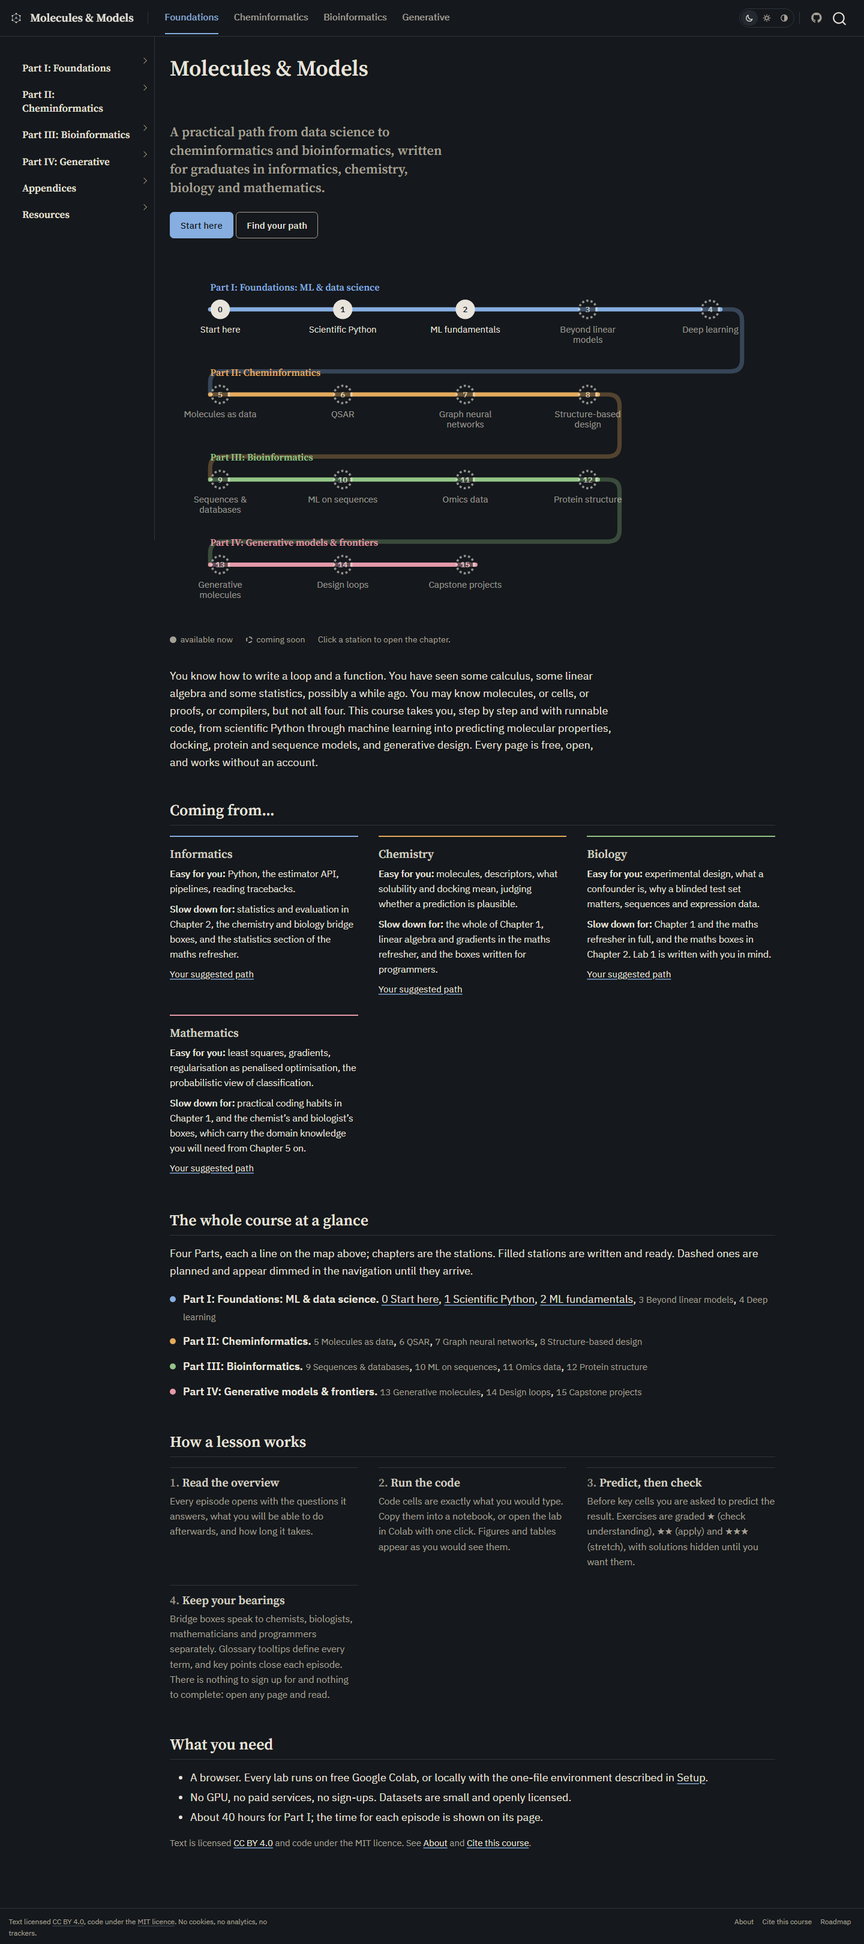
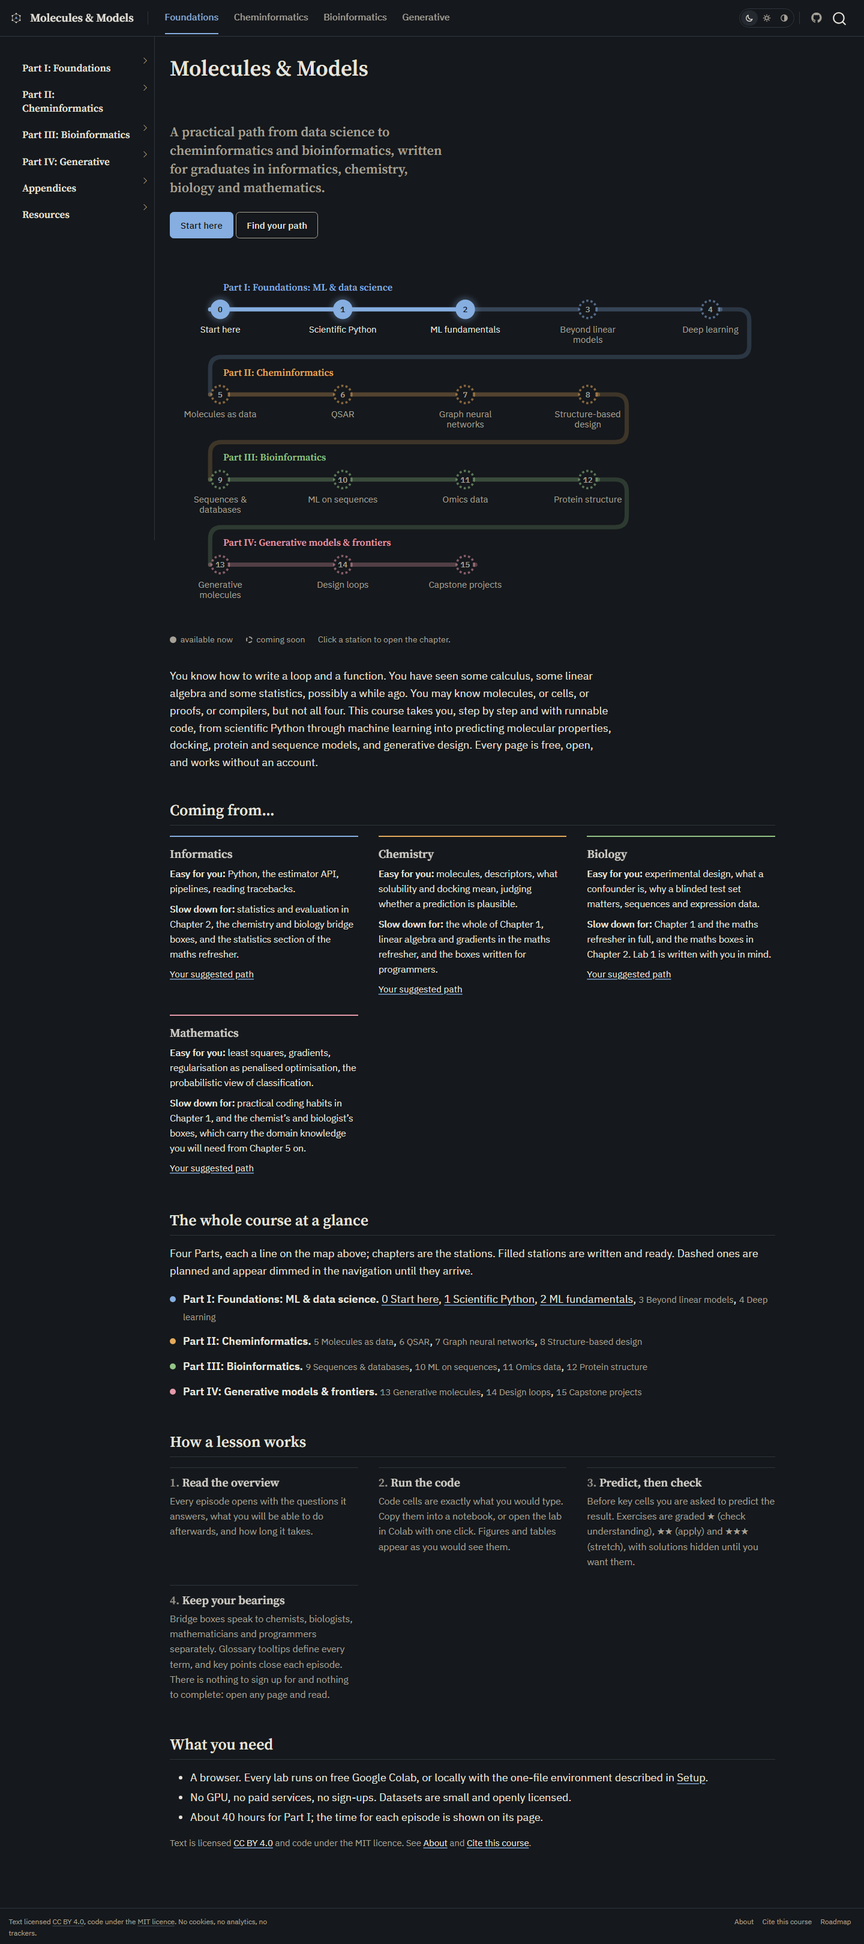
Motion: a lit roadmap and small effects that answer the reader
Roadmap (home): the written stretch of each line is lit (full colour,
soft glow) and planned stretches are unlit. On load the lines draw in
Part by Part and the stations switch on; a pulse of light then travels
along the lit stretch every six seconds. Pointing at a Part dims the
other lines; pointing at a station brightens its glow. Stations take
their line's colour; connectors no longer cross the Part labels; the
line no longer shows through planned stations' numbers; a swipe hint
appears on narrow screens.

Elsewhere: solutions, proofs and quiz answers slide open and shut;
glossary definitions fade in; chapter and audience cards light their top
rule on hover; quiz answers pulse green or amber; primary buttons get a
soft halo; navbar tabs grow an underline on hover; long pages show a thin
reading line under the header.

All CSS/SVG, no JavaScript needed, and switched off under
prefers-reduced-motion (resting styles are final states). The review
script captures with reduced motion so screenshots show finished pages.

Changed region(s): [[0.2188, 0.1248, 0.875, 0.3119]]

diff --git a/assets/scss/_mm-rules.scss b/assets/scss/_mm-rules.scss
@@ -19,7 +19,8 @@ html[data-mm-part="4"] { --mm-accent: var(--mm-accent-4); }
 
 @media (prefers-reduced-motion: reduce) {
   :root { --mm-transition: 0ms; }
-  *, *::before, *::after { transition-duration: 0ms !important; animation-duration: 0ms !important; scroll-behavior: auto !important; }
+  *, *::before, *::after { transition-duration: 0ms !important; animation: none !important; scroll-behavior: auto !important; }
+  .mm-metro-spark, .mm-metro-spark-glow { display: none !important; }
 }
 
 // ---------------------------------------------------------------------------
@@ -433,12 +434,14 @@ details.mm-callout > .mm-callout-body { padding-top: .5rem; }
 a.mm-term { color: inherit; text-decoration: none; }
 a.mm-term:hover, a.mm-term:focus-visible { text-decoration: underline; text-decoration-color: var(--mm-text-muted); text-decoration-thickness: 1px; text-underline-offset: .18em; }
 .mm-term-tip {
-  display: none; position: absolute; left: 0; top: calc(100% + .4rem); z-index: 1040; width: min(34ch, 80vw);
+  display: block; visibility: hidden; opacity: 0; transform: translateY(4px);
+  transition: opacity .16s ease, transform .16s ease, visibility 0s linear .16s;
+  position: absolute; left: 0; top: calc(100% + .4rem); z-index: 1040; width: min(34ch, 80vw);
   background: var(--mm-surface); color: var(--mm-text); border: 1px solid var(--mm-border); border-radius: var(--mm-radius); padding: .6rem .8rem;
   font-size: .84rem; line-height: 1.45; font-weight: 400; box-shadow: var(--mm-shadow); text-align: left;
 }
 .mm-term-tip strong { display: block; font-family: var(--mm-font-heading); font-size: .95rem; color: var(--mm-text); margin-bottom: .15rem; }
-a.mm-term:hover + .mm-term-tip, a.mm-term:focus-visible + .mm-term-tip, .mm-term-tip:hover { display: block; }
+a.mm-term:hover + .mm-term-tip, a.mm-term:focus-visible + .mm-term-tip, .mm-term-tip:hover { visibility: visible; opacity: 1; transform: none; transition-delay: 0s; }
 @media (hover: none) { .mm-term-tip { display: none !important; } }
 .mm-glossary dt { font-family: var(--mm-font-heading); font-size: 1.1rem; margin-top: 1.3rem; scroll-margin-top: 5rem; }
 .mm-glossary dd { max-width: var(--mm-measure); }
@@ -533,20 +536,51 @@ table.mm-schedule tr.mm-sched-lab td { background: color-mix(in srgb, var(--mm-a
 .mm-audience .mm-card p { font-size: .92rem; color: var(--mm-text); }
 .mm-audience .mm-card p strong { font-weight: 600; }
 .mm-audience .mm-card a { font-size: .9rem; margin-top: auto; }
+// ---------------------------------------------------------------------------
+// Roadmap (generated by scripts/build_course_data.py): a lit network. Written chapters are the
+// powered stretch of each line (full colour, glow, a travelling pulse of light); planned
+// chapters are unlit. On load the lines draw in Part by Part and the stations switch on.
+// Every final state is the element's normal style, so without animation nothing is hidden.
+// (The glow filter is an SVG attribute in the markup: Quarto treats url() in CSS as a file.)
+// ---------------------------------------------------------------------------
 .mm-metro { margin: 1.5rem 0 1rem; overflow-x: auto; }
 .mm-metro svg { display: block; min-width: 640px; width: 100%; height: auto; font-family: var(--mm-font-body); }
-.mm-metro .mm-metro-line { fill: none; stroke-width: 6; stroke-linecap: round; stroke-linejoin: round; }
-.mm-metro .mm-metro-link { fill: none; stroke-width: 6; stroke-linecap: round; opacity: .3; }
-.mm-metro .mm-station circle { stroke-width: 3; fill: var(--mm-bg); }
-.mm-metro .mm-station text { font-size: 12.5px; fill: var(--mm-text); }
-.mm-metro .mm-station .mm-station-num { font-size: 11px; font-weight: 600; fill: var(--mm-text); }
-.mm-metro .mm-station.built circle { fill: currentColor; }
-.mm-metro .mm-station.built .mm-station-num { fill: var(--mm-bg); }
-.mm-metro .mm-station.soon { opacity: .6; }
-.mm-metro .mm-station.soon circle { stroke-dasharray: 3 3; }
+.mm-metro .mm-metro-line { fill: none; stroke-width: 6; stroke-linecap: round; }
+.mm-metro .mm-metro-line.unlit { stroke-opacity: .3; }
+.mm-metro .mm-metro-halo { fill: none; stroke-width: 18; stroke-linecap: round; stroke-opacity: .32; }
+.mm-metro .mm-metro-link { fill: none; stroke-width: 6; stroke-linecap: round; stroke-linejoin: round; stroke-opacity: .2; }
 .mm-metro a.mm-station, .mm-metro a.mm-station text { text-decoration: none; }
-.mm-metro a.mm-station:hover text, .mm-metro a.mm-station:focus-visible text { text-decoration: underline; }
+.mm-metro a.mm-station { color: inherit; }  // stations take their line's colour, not the link colour
+.mm-metro .mm-station-dot { stroke-width: 3; fill: var(--mm-bg); transform-box: fill-box; transform-origin: center; transition: transform .2s ease, stroke-opacity .2s ease; }
+.mm-metro .mm-station.built .mm-station-dot { fill: currentColor; }
+.mm-metro .mm-station.soon .mm-station-dot { stroke-dasharray: 3 3; stroke-opacity: .55; }
+.mm-metro .mm-station-halo { opacity: .28; transform-box: fill-box; transform-origin: center; transition: opacity .25s ease, transform .25s ease; }
+.mm-metro .mm-station text { font-size: 12.5px; fill: var(--mm-text); }
+.mm-metro .mm-station .mm-station-num { font-size: 11px; font-weight: 600; }
+.mm-metro .mm-station.built .mm-station-num { fill: var(--mm-bg); }
+.mm-metro .mm-station.soon .mm-station-num, .mm-metro .mm-station.soon .mm-station-label { fill: var(--mm-text-muted); }
+.mm-metro .mm-station:hover .mm-station-dot, .mm-metro .mm-station:focus-visible .mm-station-dot { transform: scale(1.2); stroke-opacity: 1; }
+.mm-metro .mm-station:hover .mm-station-halo, .mm-metro .mm-station:focus-visible .mm-station-halo { opacity: .65; transform: scale(1.35); }
+.mm-metro .mm-station:hover .mm-station-label, .mm-metro .mm-station:focus-visible .mm-station-label { fill: var(--mm-text); text-decoration: underline; }
 .mm-metro .mm-line-label { font-family: var(--mm-font-heading); font-size: 13.5px; font-weight: 600; }
+.mm-metro .mm-metro-spark { fill: #FFFFFF; }
+// point at one Part and the other lines step back
+.mm-metro .mm-part { transition: opacity .3s ease; }
+.mm-metro svg:has(.mm-part:hover) .mm-part:not(:hover) { opacity: .32; }
+
+@keyframes mm-draw { from { stroke-dasharray: 1; stroke-dashoffset: 1; } to { stroke-dasharray: 1; stroke-dashoffset: 0; } }
+@keyframes mm-fade { from { opacity: 0; } }
+@keyframes mm-switch-on { from { opacity: 0; transform: scale(.2); } 60% { opacity: 1; transform: scale(1.25); } to { opacity: 1; transform: none; } }
+.mm-metro .mm-line-label { animation: mm-fade .5s ease backwards; animation-delay: calc(var(--i) * .28s); }
+.mm-metro .mm-metro-line.lit, .mm-metro .mm-metro-halo { animation: mm-draw .75s cubic-bezier(.3, .6, .2, 1) backwards; animation-delay: calc(.15s + var(--i) * .28s); }
+.mm-metro .mm-metro-line.unlit { animation: mm-draw .6s ease backwards; animation-delay: calc(.6s + var(--i) * .28s); }
+.mm-metro .mm-metro-link { animation: mm-draw .45s ease backwards; animation-delay: calc(.85s + var(--i) * .28s); }
+.mm-metro .mm-station { animation: mm-fade .3s ease backwards; animation-delay: calc(.2s + var(--i) * .28s + var(--j) * .12s); }
+.mm-metro .mm-station.built .mm-station-dot, .mm-metro .mm-station.built .mm-station-halo {
+  animation: mm-switch-on .55s cubic-bezier(.3, .7, .3, 1) backwards; animation-delay: calc(.2s + var(--i) * .28s + var(--j) * .12s);
+}
+.mm-metro-hint { display: none !important; }
+@media (max-width: 700px) { .mm-metro-hint { display: inline-flex !important; } }
 .mm-metro-legend { display: flex; flex-wrap: wrap; gap: .5rem 1.25rem; font-size: .84rem; color: var(--mm-text-muted); margin-bottom: 1.5rem; }
 .mm-metro-legend span { display: inline-flex; align-items: center; gap: .4rem; }
 .mm-metro-legend i { width: 11px; height: 11px; border-radius: 50%; border: 2px solid var(--mm-text-muted); display: inline-block; }
@@ -604,4 +638,64 @@ table.mm-schedule tr.mm-sched-lab td { background: color-mix(in srgb, var(--mm-a
   pre, .cell-output pre { max-height: none; white-space: pre-wrap; }
   a[href^="http"]::after { content: " (" attr(href) ")"; font-size: .85em; color: #555; }
   .cell-output-display .dark-content { display: none !important; }
+}
+
+// ---------------------------------------------------------------------------
+// Motion that answers the reader. All of it is CSS, all of it stops under prefers-reduced-motion
+// (see the top of this file), and in browsers without the newer features it simply does not run.
+// ---------------------------------------------------------------------------
+// home: the hero settles in while the roadmap draws itself
+@keyframes mm-rise { from { opacity: 0; transform: translateY(6px); } }
+.mm-home-hero > * { animation: mm-rise .6s cubic-bezier(.2, .7, .2, 1) backwards; }
+.mm-home-hero > :nth-child(2) { animation-delay: .08s; }
+.mm-home-hero > :nth-child(3) { animation-delay: .16s; }
+
+// solutions, proofs, deep dives and quiz options slide open and shut
+@supports selector(::details-content) {
+  :root { interpolate-size: allow-keywords; }
+  details.mm-callout::details-content, details.mm-quiz-option::details-content {
+    block-size: 0; overflow-y: clip;
+    transition: block-size .3s cubic-bezier(.2, .7, .2, 1), content-visibility .3s allow-discrete;
+  }
+  details.mm-callout[open]::details-content, details.mm-quiz-option[open]::details-content { block-size: auto; }
+}
+
+// cards: the top rule lights up in the card's colour
+.mm-card { position: relative; }
+.mm-card::before {
+  content: ""; position: absolute; left: 0; right: 0; top: -1px; height: 2px; pointer-events: none;
+  background: var(--mm-c, var(--mm-accent)); transform: scaleX(0); transform-origin: 0 50%;
+  transition: transform .35s cubic-bezier(.2, .7, .2, 1), box-shadow .35s ease;
+}
+.mm-audience .mm-card::before { top: -2px; }
+.mm-card:hover::before, .mm-card:focus-within::before {
+  transform: scaleX(1); box-shadow: 0 0 12px 0 color-mix(in srgb, var(--mm-c, var(--mm-accent)) 65%, transparent);
+}
+
+// quiz: a short pulse of colour when an answer opens
+@keyframes mm-pulse {
+  from { box-shadow: 0 0 0 0 color-mix(in srgb, var(--mm-c) 55%, transparent); }
+  to { box-shadow: 0 0 0 10px color-mix(in srgb, var(--mm-c) 0%, transparent); }
+}
+.mm-quiz-option[open] { animation: mm-pulse .6s ease-out; }
+
+// primary buttons: a soft halo on hover
+.mm-btn-primary { transition: background var(--mm-transition), box-shadow .25s ease; }
+.mm-btn-primary:hover, .mm-btn-primary:focus-visible { box-shadow: 0 0 0 4px color-mix(in srgb, var(--mm-accent-1) 28%, transparent); }
+
+// navbar: an underline grows under the tab you point at
+@media (min-width: 992px) {
+  .navbar .navbar-nav .nav-link::after { transform: scaleX(0); transition: transform .25s cubic-bezier(.2, .7, .2, 1); }
+  .navbar .navbar-nav .nav-link:not(.active):hover::after { transform: scaleX(1); background: var(--mm-border); }
+  .navbar .navbar-nav .nav-link.active::after { transform: scaleX(1); }
+}
+
+// long pages: a thin line under the header shows how far down the page you are
+@supports (animation-timeline: scroll()) {
+  @keyframes mm-read { from { transform: scaleX(0); } to { transform: scaleX(1); } }
+  body:has(#TOC) #quarto-header::after {
+    content: ""; position: absolute; left: 0; right: 0; bottom: -1px; height: 2px; pointer-events: none;
+    background: var(--mm-accent); transform-origin: 0 50%; transform: scaleX(0);
+    animation: mm-read linear both; animation-timeline: scroll(root block);
+  }
 }

diff --git a/scripts/build_course_data.py b/scripts/build_course_data.py
@@ -360,7 +360,13 @@ def write_chapter_includes(course: dict) -> None:
 
 
 def write_metro(course: dict) -> None:
-    """Roadmap as a metro map: one coloured line per Part, chapters as stations."""
+    """Roadmap as a metro map: one coloured line per Part, chapters as stations.
+
+    The stretch of each line that reaches written chapters is "lit" (full colour, a soft glow, and a
+    pulse of light that travels along it); planned stretches are unlit. All motion is CSS or SVG
+    animation, so the map works without JavaScript, and assets/scss/_mm-rules.scss switches it off
+    for readers who ask for reduced motion.
+    """
     x0, spacing, row_h, top = 70, 170, 118, 56
     width = x0 + 4 * spacing + 90
     height = top + row_h * (len(course["parts"]) - 1) + 80
@@ -369,31 +375,42 @@ def write_metro(course: dict) -> None:
         '<div class="mm-metro">',
         f'<svg viewBox="0 0 {width} {height}" aria-labelledby="mm-metro-title mm-metro-desc" xmlns="http://www.w3.org/2000/svg">',
         '<title id="mm-metro-title">Course roadmap</title>',
-        '<desc id="mm-metro-desc">Four coloured lines, one per Part, with chapters as stations. Filled stations are available; dashed stations are coming soon.</desc>',
+        '<desc id="mm-metro-desc">Four coloured lines, one per Part, with chapters as stations. Lit, filled stations are available; dashed stations are coming soon.</desc>',
+        '<defs><filter id="mm-glow" x="-60%" y="-60%" width="220%" height="220%"><feGaussianBlur stdDeviation="4"/></filter></defs>',
     ]
     for i, part in enumerate(course["parts"]):
         y = top + i * row_h
         colour = f"var({ACCENT_VAR[part['accent']]})"
-        n = len(part["chapters"])
-        x_end = x0 + (n - 1) * spacing
-        out.append(f'<g style="color:{colour}">')
-        out.append(f'<text class="mm-line-label" x="{x0 - 14}" y="{y - 26}" fill="currentColor">Part {part["roman"]}: {escape(part["title"])}</text>')
-        out.append(f'<path class="mm-metro-line" stroke="currentColor" d="M{x0 - 14} {y} H{x_end + 14}"/>')
+        chapters = [course["chapters"][c] for c in part["chapters"]]
+        n = len(chapters)
+        x_start, x_end = x0 - 14, x0 + (n - 1) * spacing
+        built = [j for j, ch in enumerate(chapters) if not ch["stub"]]
+        # the lit stretch runs from the start of the line to the last written chapter
+        last_built = max(built) if built else None
+        lit_end = None if last_built is None else (x_end + 14 if last_built == n - 1 else x0 + last_built * spacing)
+        out.append(f'<g class="mm-part" style="color:{colour};--i:{i}">')
+        out.append(f'<text class="mm-line-label" x="{x0 + 4}" y="{y - 26}" fill="currentColor">Part {part["roman"]}: {escape(part["title"])}</text>')
+        if lit_end is not None:
+            lit_d = f"M{x_start} {y} H{lit_end}"
+            out.append(f'<path class="mm-metro-halo" pathLength="1" stroke="currentColor" filter="url(#mm-glow)" d="{lit_d}"/>')
+            out.append(f'<path class="mm-metro-line lit" pathLength="1" stroke="currentColor" d="{lit_d}"/>')
+            if lit_end < x_end + 14:
+                out.append(f'<path class="mm-metro-line unlit" pathLength="1" stroke="currentColor" d="M{lit_end} {y} H{x_end + 14}"/>')
+        else:
+            out.append(f'<path class="mm-metro-line unlit" pathLength="1" stroke="currentColor" d="M{x_start} {y} H{x_end + 14}"/>')
         if i + 1 < len(course["parts"]):
-            # transfer connector: around the right end, below the labels, back to the next line's start
+            # transfer connector: out past the last station label, down, back left between the two rows,
+            # and down into the start of the next line (clear of both rows' labels)
             ny = y + row_h
             out.append(
-                f'<path class="mm-metro-link" stroke="currentColor" d="M{x_end + 14} {y} h14 q16 0 16 16 v{row_h - 64} q0 16 -16 16 H{x0 + 2} q-16 0 -16 16 V{ny}"/>'
+                f'<path class="mm-metro-link" pathLength="1" stroke="currentColor" '
+                f'd="M{x_end + 14} {y} h24 q16 0 16 16 v34 q0 16 -16 16 H{x0 + 2} q-16 0 -16 16 V{ny}"/>'
             )
-        for j, cid in enumerate(part["chapters"]):
-            ch = course["chapters"][cid]
+        for j, ch in enumerate(chapters):
             x = x0 + j * spacing
             cls = "mm-station " + ("soon" if ch["stub"] else "built")
-            label = ch["short"]
             desc = f'<desc>Chapter {ch["number"]}: {escape(ch["title"])}' + (", coming soon" if ch["stub"] else "") + "</desc>"
-            words = label.split()
-            lines = []
-            cur = ""
+            words, lines, cur = ch["short"].split(), [], ""
             for w in words:
                 if len(cur) + len(w) + 1 > 18 and cur:
                     lines.append(cur)
@@ -403,18 +420,27 @@ def write_metro(course: dict) -> None:
             if cur:
                 lines.append(cur)
             tspans = "".join(f'<tspan x="{x}" dy="{0 if k == 0 else 14}">{escape(l)}</tspan>' for k, l in enumerate(lines))
+            halo = f'<circle class="mm-station-halo" filter="url(#mm-glow)" cx="{x}" cy="{y}" r="17" fill="currentColor"/>' if not ch["stub"] else ""
             out.append(
-                f'<a class="{cls}" href="{ch["href"]}">{desc}'
-                f'<circle cx="{x}" cy="{y}" r="12" stroke="currentColor"/>'
+                f'<a class="{cls}" href="{ch["href"]}" style="--j:{j}">{desc}{halo}'
+                f'<circle class="mm-station-dot" cx="{x}" cy="{y}" r="12" stroke="currentColor"/>'
                 f'<text class="mm-station-num" x="{x}" y="{y + 4}" text-anchor="middle">{ch["number"]}</text>'
-                f'<text x="{x}" y="{y + 32}" text-anchor="middle">{tspans}</text>'
+                f'<text class="mm-station-label" x="{x}" y="{y + 32}" text-anchor="middle">{tspans}</text>'
                 "</a>"
             )
+        if lit_end is not None:
+            # a pulse of light travelling along the lit stretch, then resting, every six seconds
+            motion = (f'<animateMotion path="M{x_start} {y} H{lit_end}" begin="2s" dur="6s" repeatCount="indefinite" '
+                      'calcMode="linear" keyPoints="0;1;1" keyTimes="0;0.5;1"/>')
+            fade = ('<animate attributeName="opacity" values="0;1;1;0;0" keyTimes="0;0.06;0.44;0.52;1" '
+                    'begin="2s" dur="6s" repeatCount="indefinite"/>')
+            out.append(f'<circle class="mm-metro-spark-glow" filter="url(#mm-glow)" r="11" fill="currentColor" opacity="0">{motion}{fade}</circle>')
+            out.append(f'<circle class="mm-metro-spark" r="4" opacity="0">{motion}{fade}</circle>')
         out.append("</g>")
     out.append("</svg></div>")
     legend = (
         '<p class="mm-metro-legend"><span><i class="built"></i> available now</span><span><i class="soon"></i> coming soon</span>'
-        '<span>Click a station to open the chapter.</span></p>'
+        '<span>Click a station to open the chapter.</span><span class="mm-metro-hint">Swipe sideways to see the whole map.</span></p>'
     )
     out.append(legend)
     (GEN / "metro.md").write_text("\n".join(out) + "\n", encoding="utf8")

diff --git a/scripts/review_site.py b/scripts/review_site.py
@@ -80,7 +80,9 @@ def main() -> int:
     with sync_playwright() as pw:
         browser = pw.chromium.launch()
         for theme in THEMES:
-            ctx = browser.new_context(viewport={"width": 1440, "height": 900}, device_scale_factor=1)
+            # reduced motion: screenshots show every page in its final state (the roadmap's intro animation
+            # would otherwise be caught half-drawn); the static glow and colours are unaffected
+            ctx = browser.new_context(viewport={"width": 1440, "height": 900}, device_scale_factor=1, reduced_motion="reduce")
             ctx.add_init_script(f"try {{ localStorage.setItem('mm-theme', '{theme}'); }} catch (e) {{}}")
             page = ctx.new_page()
             for name in pages:

diff --git a/AUTHORING.md b/AUTHORING.md
@@ -237,7 +237,7 @@ an `index.qmd` with the "soon" banner, 4–6 topic bullets and 3 planned outcome
 | Shortcodes | `_extensions/mm/term.lua`, `glossary.lua` | glossary tooltips and page (`glossary.yml` parsed by pandoc) |
 | Title block | `_extensions/mm/partials/title-block.html` | episode / lab / plain title blocks from metadata |
 | Post-render | `scripts/post_render.py` | sidebar decoration (numbers, times, check circles, "soon"), part accent on `<html>`, skip link, a11y fixes, CDN removal, guards Quarto's nav script against SVG links |
-| Theme | `brand/*.yml`, `assets/scss/*.scss`, `assets/highlight/*.theme` | colours as CSS custom properties in `_tokens.scss`; sizes and spacing in `_shared-defaults.scss`; every component rule in `_mm-rules.scss`. `mm-light.scss` and `mm-dark.scss` hold only their colours and both import the shared files: Quarto layers the dark sheet over the light one in dark mode, so a rule that lived only in the light file would lose to Bootstrap's defaults re-emitted by the dark sheet. Design rules: colour is semantic only (one accent per Part, one per callout kind), callouts are a thin coloured rule rather than a box, headings are serif, links are ink-coloured with an accent underline, no all-caps labels. Any SCSS change needs a clean full render (`rm -rf _site && quarto render`) because the compiled CSS file name is hashed |
+| Theme | `brand/*.yml`, `assets/scss/*.scss`, `assets/highlight/*.theme` | colours as CSS custom properties in `_tokens.scss`; sizes and spacing in `_shared-defaults.scss`; every component rule in `_mm-rules.scss`. `mm-light.scss` and `mm-dark.scss` hold only their colours and both import the shared files: Quarto layers the dark sheet over the light one in dark mode, so a rule that lived only in the light file would lose to Bootstrap's defaults re-emitted by the dark sheet. Motion (the roadmap's draw-in and travelling light, sliding solutions, tooltip fades, card and quiz highlights, the reading line under the header) is CSS and SVG only, needs no JavaScript, and is switched off entirely under `prefers-reduced-motion`; every element's resting style is its final state, so nothing is hidden when animation does not run. Never put `url(...)` references to in-page SVG ids in the SCSS: Quarto treats them as files and the render fails. Design rules: colour is semantic only (one accent per Part, one per callout kind), callouts are a thin coloured rule rather than a box, headings are serif, links are ink-coloured with an accent underline, no all-caps labels. Any SCSS change needs a clean full render (`rm -rf _site && quarto render`) because the compiled CSS file name is hashed |
 | JS | `assets/js/mm.js` | theme switch (Dark/Light/Auto), expand-all-solutions, quiz score, long-output collapse, print expansion, `/` search |
 | Fonts | `assets/fonts/` | IBM Plex Sans, Source Serif 4, JetBrains Mono, subset with fontTools (`scripts/subset_fonts.sh`), served via `brand` typography |
 
